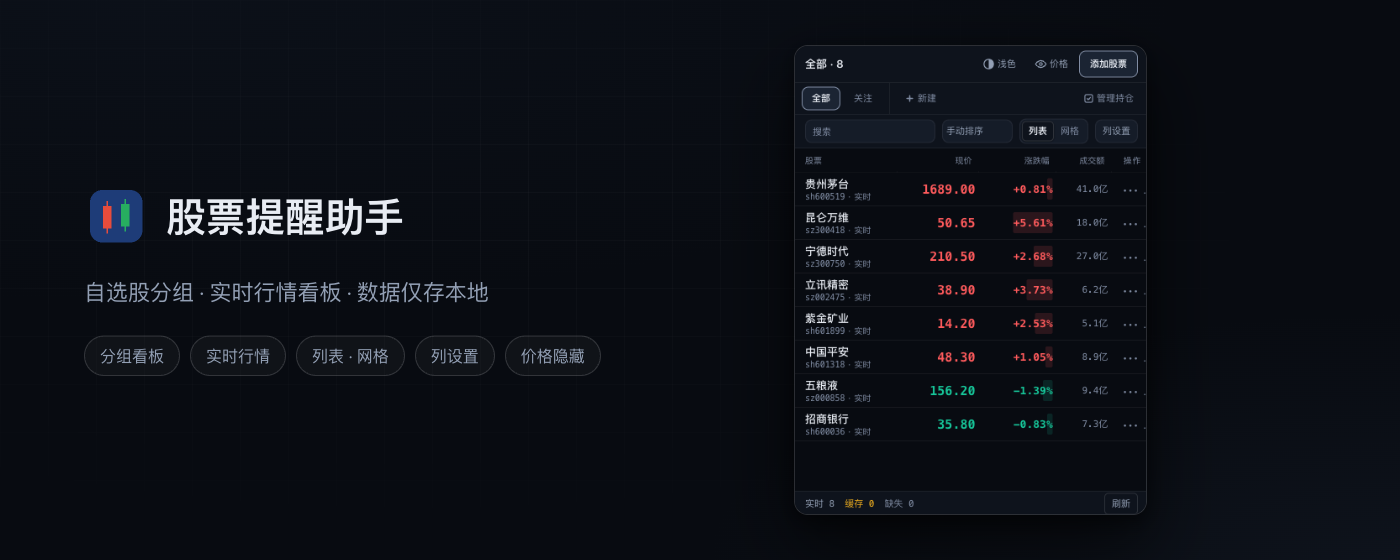
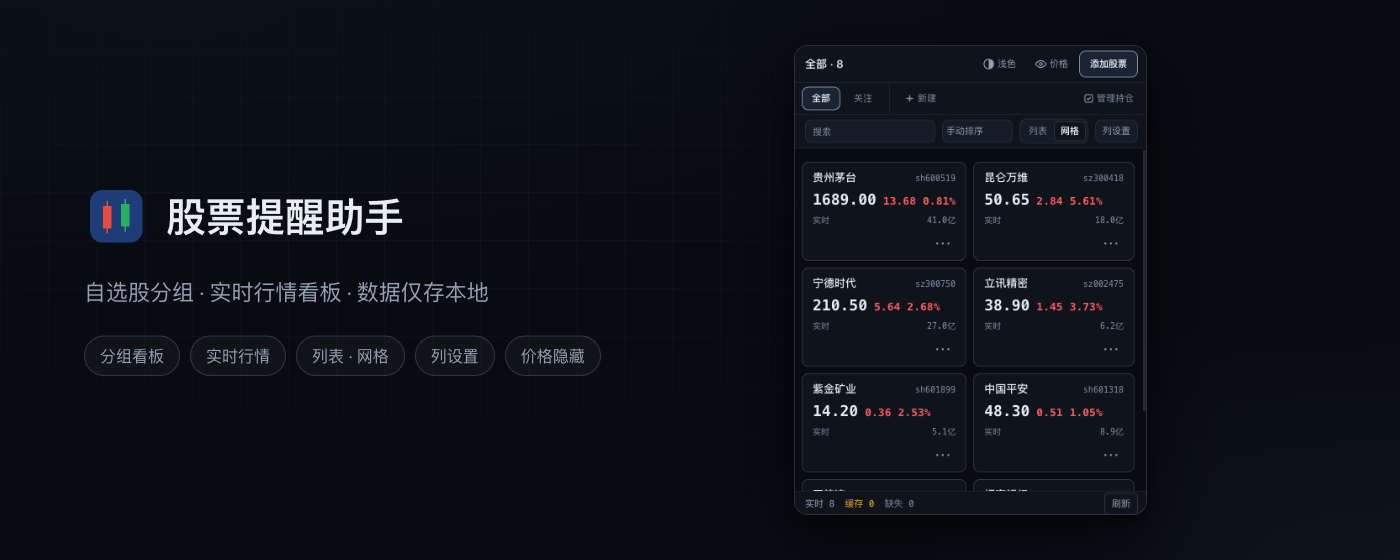
feat(popup)!: 默认视图改为网格；更新项目规范
默认形态定为「深色 + 网格」——全新用户打开即一屏卡片。
深色本就是默认（popup/main.ts 仅在 localStorage.uiTheme === 'light' 时转浅色，
不跟随系统），本次把视图默认从 list 改为 grid，并用 E2E 锁死这一首屏契约。

- DEFAULT_BOARD_CONFIG.viewMode: list → grid（domain 唯一定义处）
- 新增 E2E「fresh profile opens in dark theme and grid view」：不设 boardConfig
  走默认值，断言 data-theme=dark + 卡片在场 + 表格不在 DOM。已红绿验证
- 已保存过偏好的用户不受影响：默认值只用于 boardConfig 缺该分组条目时回退

测试鲁棒性：断言表格结构的 E2E 此前依赖全局默认值，默认一改就集体变红
（4 个用例）。新增 listBoardConfig() 夹具，让这类用例显式声明所需视图——
与已有的 gridBoardConfig() 对称。

商店素材：去掉种子里写死的 boardConfig，首图即真实首屏；截图重排为
grid → list → add，顶部图块也改用网格。

更新 AGENTS.md（项目规范）：
- 版本 2.0.0 → 2.0.1；修正已过时的样式表链（components.css 早已拆成 7 个分域表）
- 命令面补齐 test:build / test:release / capture:store，并写明「新增测试文件
  必须落进某个会跑的 glob」——目录即前置条件
- 新增不变量：view 不变量（两条 userData 落地路径都要过 settleView）、默认形态、
  行情字段绑定 endpoint 不可跨接口套用、商店素材规格、行高契约
- 新增「验证纪律」一节，记录两次踩坑的教训：mock 不能替代实证；门禁必须真的会跑；
  写死的期望值会掩盖真正的契约

diff --git a/tests/e2e/column-settings.spec.ts b/tests/e2e/column-settings.spec.ts
@@ -5,14 +5,14 @@
 // 但 app-shell 用一行注释显式忽略了该事件——ColumnPanelElement 已实现、已注册、
 // 有 236 行组件测试，用户点下去却毫无反应。全部门禁都是绿的。
 import { expect, test } from '@playwright/test';
-import { launchBuiltExtension, stock, baseSeed } from './extension-fixture';
+import { launchBuiltExtension, stock, baseSeed, listBoardConfig } from './extension-fixture';
 
 const COLUMN_TRIGGER = '[data-action="column-settings"]';
 
 test('column settings button opens a working panel', async () => {
   const launched = await launchBuiltExtension({
     offline: true,
-    seed: baseSeed({ watchlist: [stock('sh600519')] })
+    seed: baseSeed({ watchlist: [stock('sh600519')], boardConfig: listBoardConfig() })
   });
   try {
     const page = launched.page;
@@ -34,7 +34,7 @@ test('column settings button opens a working panel', async () => {
 test('disabling a column hides it and the choice survives reopening the popup', async () => {
   const launched = await launchBuiltExtension({
     offline: true,
-    seed: baseSeed({ watchlist: [stock('sh600519')] })
+    seed: baseSeed({ watchlist: [stock('sh600519')], boardConfig: listBoardConfig() })
   });
   try {
     const page = launched.page;
@@ -59,7 +59,7 @@ test('disabling a column hides it and the choice survives reopening the popup', 
 test('the locked name column is absent and price can be switched off', async () => {
   const launched = await launchBuiltExtension({
     offline: true,
-    seed: baseSeed({ watchlist: [stock('sh600519')] })
+    seed: baseSeed({ watchlist: [stock('sh600519')], boardConfig: listBoardConfig() })
   });
   try {
     const page = launched.page;
@@ -84,7 +84,7 @@ test('the locked name column is absent and price can be switched off', async () 
 test('escape closes the popover and returns focus to the trigger', async () => {
   const launched = await launchBuiltExtension({
     offline: true,
-    seed: baseSeed({ watchlist: [stock('sh600519')] })
+    seed: baseSeed({ watchlist: [stock('sh600519')], boardConfig: listBoardConfig() })
   });
   try {
     const page = launched.page;
@@ -104,7 +104,7 @@ test('escape closes the popover and returns focus to the trigger', async () => {
 test('grid cards apply column settings', async () => {
   const launched = await launchBuiltExtension({
     offline: true,
-    seed: baseSeed({ watchlist: [stock('sh600519')] })
+    seed: baseSeed({ watchlist: [stock('sh600519')], boardConfig: listBoardConfig() })
   });
   try {
     const page = launched.page;
@@ -127,7 +127,7 @@ test('grid cards apply column settings', async () => {
 test('reordering a column reorders the table columns persistently', async () => {
   const launched = await launchBuiltExtension({
     offline: true,
-    seed: baseSeed({ watchlist: [stock('sh600519')] })
+    seed: baseSeed({ watchlist: [stock('sh600519')], boardConfig: listBoardConfig() })
   });
   try {
     const page = launched.page;

diff --git a/tests/e2e/preferences.spec.ts b/tests/e2e/preferences.spec.ts
@@ -4,6 +4,35 @@
 import { expect, test } from '@playwright/test';
 import { launchBuiltExtension, stock, baseSeed, getStorage } from './extension-fixture';
 
+/**
+ * 首次打开的默认形态：深色主题 + 网格视图。
+ *
+ * 这是产品决定的第一印象，不是实现细节——没有配置（boardConfig 为空、
+ * 未写过 uiTheme）时必须是这个样子。默认值散落在 DEFAULT_BOARD_CONFIG 与
+ * popup/main.ts 两处，任何一处漂移都会改变全新用户看到的界面，
+ * 而其余用例大多显式声明视图，抓不到这种回归。
+ */
+test('a fresh profile opens in dark theme and grid view', async () => {
+  const launched = await launchBuiltExtension({
+    offline: true,
+    // 不设 boardConfig：走 DEFAULT_BOARD_CONFIG。
+    seed: baseSeed({ watchlist: [stock('sh600519'), stock('sz000001')] })
+  });
+  try {
+    const page = launched.page;
+    await page.waitForSelector('stock-app');
+    // 深色：main.ts 在 Store 创建前就写 data-theme，避免闪烁。
+    await expect.poll(async () => page.evaluate(() => document.documentElement.dataset.theme)).toBe('dark');
+    // 网格：看板只挂载激活视图，所以卡片在、表格不在。
+    await expect(page.locator('stock-card').first()).toBeVisible();
+    await expect(page.locator('stock-table table')).toHaveCount(0);
+    // 工具栏的「网格」按钮应处于选中态。
+    await expect(page.locator('[data-action="view-grid"]')).toHaveAttribute('aria-pressed', 'true');
+  } finally {
+    await launched.close();
+  }
+});
+
 test('view mode preference persists', async () => {
   const launched = await launchBuiltExtension({
     offline: true,

diff --git a/tests/e2e/groups.spec.ts b/tests/e2e/groups.spec.ts
@@ -2,7 +2,7 @@
 // Task 18 Step 4 — 分组生命周期完整测试。
 // 每个流程后重开 Popup 检查 chrome.storage.local 确保持久化。
 import { expect, test } from '@playwright/test';
-import { launchBuiltExtension, GROUPS, stock, baseSeed, getStorage , gridBoardConfig} from './extension-fixture';
+import { launchBuiltExtension, GROUPS, stock, baseSeed, getStorage , gridBoardConfig, listBoardConfig } from './extension-fixture';
 
 test('create a new custom group', async () => {
   const launched = await launchBuiltExtension({
@@ -67,7 +67,8 @@ test('rename a custom group', async () => {
 test('delete a custom group', async () => {
   const launched = await launchBuiltExtension({
     offline: true,
-    seed: baseSeed({ watchlist: [stock('sh600519')] })
+    // 该用例断言回退到「全部」后表格里能看到那只股票——显式声明列表视图。
+    seed: baseSeed({ watchlist: [stock('sh600519')], boardConfig: listBoardConfig() })
   });
   try {
     // 切换到 g_tech → 触发 rename-group 对话框（包含删除按钮）。

diff --git a/tests/e2e/extension-fixture.ts b/tests/e2e/extension-fixture.ts
@@ -265,3 +265,15 @@ export function gridBoardConfig(): Record<string, unknown> {
     g_all: { viewMode: 'grid', sortField: 'manual', sortDirection: 'asc', priceHidden: false }
   };
 }
+
+/**
+ * 以列表视图打开看板的 boardConfig（含 g_tech，便于切分组后仍是列表）。
+ *
+ * 断言 `stock-table` 行为（thead/tbody/列顺序/列显隐）的用例必须显式声明列表视图：
+ * 默认视图已改为网格，只挂载激活视图意味着表格根本不在 DOM 里。
+ * 用例依赖全局默认值是脆的——默认一改，一批与「默认值」无关的用例就集体变红。
+ */
+export function listBoardConfig(): Record<string, unknown> {
+  const list = { viewMode: 'list', sortField: 'manual', sortDirection: 'asc', priceHidden: false };
+  return { g_all: { ...list }, g_tech: { ...list } };
+}

diff --git a/tests/unit/application/portfolio-commands.test.ts b/tests/unit/application/portfolio-commands.test.ts
@@ -413,7 +413,7 @@ test('setOrder creates default boardConfig if missing', async () => {
   });
   const cfg = result.userData.boardConfig.g_all;
   assert.equal(cfg.sortField, 'manual');
-  assert.equal(cfg.viewMode, 'list');
+  assert.equal(cfg.viewMode, 'grid');
   assert.equal(cfg.sortDirection, 'asc');
   assert.equal(cfg.priceHidden, false);
 });
@@ -699,7 +699,7 @@ test('patchPreferences creates default config if missing', async () => {
     patch: { sortField: 'price' }
   });
   assert.equal(result.value.sortField, 'price');
-  assert.equal(result.value.viewMode, 'list'); // default
+  assert.equal(result.value.viewMode, 'grid'); // default
   assert.equal(result.value.sortDirection, 'asc'); // default
   assert.equal(result.value.priceHidden, false); // default
 });

diff --git a/tests/unit/popup/selectors.test.ts b/tests/unit/popup/selectors.test.ts
@@ -113,7 +113,7 @@ test('selectCurrentBoardConfig returns the boardConfig for the current group', (
 test('selectCurrentBoardConfig falls back to default when group has no config', () => {
   const state = stateWith([], { boardConfig: {} });
   const cfg = selectCurrentBoardConfig(state);
-  assert.equal(cfg.viewMode, 'list');
+  assert.equal(cfg.viewMode, 'grid');
   assert.equal(cfg.priceHidden, false);
   assert.equal(cfg.sortField, 'manual');
 });

diff --git a/src/domain/portfolio.ts b/src/domain/portfolio.ts
@@ -38,7 +38,7 @@ export function stocksForGroup(stocks: readonly Stock[], groupId: GroupId): read
  * 忽略 direction 才没暴露成真实 bug。任何新的消费方都必须引用此常量。
  */
 export const DEFAULT_BOARD_CONFIG: BoardConfig = Object.freeze({
-  viewMode: 'list',
+  viewMode: 'grid',
   sortField: 'manual',
   sortDirection: 'asc',
   priceHidden: false

diff --git a/tests/unit/domain/portfolio.test.ts b/tests/unit/domain/portfolio.test.ts
@@ -192,7 +192,7 @@ test('stocksForGroup returns a copy, not the original array', () => {
 
 test('DEFAULT_BOARD_CONFIG is the single shared fallback and is immutable', () => {
   assert.deepEqual(DEFAULT_BOARD_CONFIG, {
-    viewMode: 'list',
+    viewMode: 'grid',
     sortField: 'manual',
     sortDirection: 'asc',
     priceHidden: false

diff --git a/AGENTS.md b/AGENTS.md
@@ -1,4 +1,4 @@
-# AGENTS.md — 股票提醒助手（Chrome 扩展，Manifest V3，v2.0.0 TypeScript/ESM）
+# AGENTS.md — 股票提醒助手（Chrome 扩展，Manifest V3，v2.0.1 TypeScript/ESM）
 
 新会话从本文件起步；权威架构说明见 [docs/项目架构.md](docs/项目架构.md)。
 
@@ -7,7 +7,7 @@
 | 文件 | 角色 |
 |------|------|
 | `extension/manifest.json` | 扩展清单（MV3）：`action.default_popup` = popup.html，`background.service_worker` = `runtime/background/main.js`（`type: "module"`）；权限仅 `storage` + `alarms`；host_permissions 覆盖三个数据源域名（push2.eastmoney.com / searchapi.eastmoney.com / qt.gtimg.cn） |
-| `extension/popup.html` | 弹窗 UI 入口：`<stock-app hidden>` + `#fatal-fallback` + `<script type="module" src="runtime/popup/main.js">`；链式加载 `tokens.css → layout.css → components.css` |
+| `extension/popup.html` | 弹窗 UI 入口：`<stock-app hidden>` + `#fatal-fallback` + `<script type="module" src="runtime/popup/main.js">`；链式加载 `tokens → base → layout → controls → board → overlays → accessibility`（7 个分域样式表，`components.css` 已在 v2 视觉重建中拆解） |
 | `src/background/main.ts` | Service Worker 组合根：同步注册所有 Chrome listener（onMessage/onAlarm/onInstalled/onStartup/onChanged），创建 `StorageCoordinator` + Application Services + Router + Scheduler，通过可重试初始化屏障 `idle/running/ready` 处理事件 |
 | `src/popup/main.ts` | Popup 组合根：定义 Web Components、创建 RpcClient/Store/CommandController/AppShell，调用 `app:bootstrap`，调度行情刷新 |
 
@@ -36,11 +36,18 @@ Infrastructure (Chrome / Storage / HTTP)  →  implements  →  Application Port
 - `npm run test:unit`：`tsx` + node:test 跑 `tests/unit/**/*.test.ts`，c8 覆盖率门槛 lines/statements/functions 90 / branches 85
 - `npm run test:critical-coverage`：Domain/Protocol/Storage/Reducer per-file 门槛 95/90/95/95
 - `npm run test:component`：`tsx` + happy-dom 跑 `tests/component/**/*.test.ts`
+- `npm run test:build`：`tests/unit/build/**/*.test.mjs`——构建产物 / 架构闸 / 容量夹具 / **商店素材规格**（无需浏览器）
 - `npm run test:e2e`：Playwright 加载 `build/extension/` 真实扩展 E2E
 - `npm run test:a11y`：axe-core 无障碍扫描
-- `npm run ci`：check + test:unit + test:critical-coverage + test:component + test:e2e + test:a11y
-- `npm run release:verify`：ci + test:performance + npm audit + verify-deterministic-build + capture:store + package:extension + check:bundle
+- `npm run ci`：check + test:unit + test:critical-coverage + test:component + **test:build** + test:e2e + test:a11y
+- `npm run test:release`：`tests/release/**`——释放包允许列表。前置条件是**已打包**，故只进 `release:verify`，不进 `ci`
+- `npm run release:verify`：ci + test:performance + npm audit + verify-deterministic-build + capture:store + package:extension + check:bundle + test:release
+- `npm run capture:store`：生成商店素材（3 张 1280x800 截图 + 440x280 + 1400x560），落 `store-assets/`
 - `npm run test:live`：实网行情冒烟（**不进 ci**，依赖第三方端点可达性）
+
+> **新增测试文件必须落进某个会跑的 glob。** `tests/unit/build/` 曾有 4 个 `.test.mjs`
+> 长期不被任何门禁执行——`test:unit` 的 glob 只匹配 `*.test.ts`。目录即前置条件：
+> 需要打包产物的放 `tests/release/`，其余放 `tests/unit/build/`。
 
 ## 核心边界（不变量）
 
@@ -49,6 +56,11 @@ Infrastructure (Chrome / Storage / HTTP)  →  implements  →  Application Port
 - **代码规范**：股票代码带市场前缀 `sh` / `sz` / `bj`，统一经 `src/domain/stock.ts` 的 `normalizeStockCode` 规范化
 - **RPC v2**：`src/protocol/registry.ts` 是唯一的 RPC 方法/payload/result/validator 注册表（13 个方法）；所有写命令是幂等最终态命令并携带 `expectedRevision`；冲突返回 `CONFLICT` 不写入；`requestId` 贯穿全链路
 - **Popup Store**：`src/popup/store/reducer.ts` 是 `AppState` 的唯一写入口（纯函数）；`domain.boardConfig` 是持久偏好的唯一真相；超时写入进入 uncertain 状态，经 bootstrap 对账确认后更新——绝不盲目回滚
+- **view 不变量**：`currentGroupId` 必须指向存在的分组，且**选中集 ⊆ 当前分组可见集**。替换 `userData` 的路径有**两条**——`mutation/confirmed` 与 `bootstrap/confirmed`（写命令超时 → uncertain → `app:bootstrap` 对账），两条都必须过 `settleView`。只在 mutation 分支收敛会让批量工具栏为已删除的股票留计数
+- **默认形态**：全新用户打开即 **深色 + 网格**。两处默认值——`DEFAULT_BOARD_CONFIG`（`src/domain/portfolio.ts`，唯一定义处）与 `src/popup/main.ts` 的 `initialTheme`（仅当 `localStorage.uiTheme === 'light'` 才转浅色，不读 `prefers-color-scheme`）。由 `tests/e2e/preferences.spec.ts` 的「fresh profile」用例守护
+- **行情字段绑定 endpoint，不可跨接口套用**：东财 `f*` 字段的含义**随 endpoint 变化**——`f51/f52` 只在逐只的 `stock/get` 上是涨停/跌停价，在本项目使用的批量接口 `ulist.np/get` 上是无关量纲（实测茅台 2715 亿、平安银行 0）。新增字段前必须拿真实接口比对已知真值，不能只照字段表；provider 缺该数据时保持 `undefined`，展示层渲染 `--`
+- **商店素材规格**：`store-assets/` 的截图必须是 1280x800 或 640x400、小图块 440x280、顶部图块 1400x560，且为 24 位无 alpha PNG。由 `tests/unit/build/store-assets.test.mjs` 守护——商店只在**上传那一刻**报「图片尺寸不正确」，没有门禁就会一直躺着一批不能用的图
+- **行高契约**：`TABLE_ROW_EXTENT`（`stock-table.ts`）必须等于 `tokens.css` 的 `--row-h`，否则虚拟滚动的 spacer 与真实行高逐行错位。由组件测试直接比对两个真实来源双向锁死
 - **调度**：刷新间隔由市场状态计算——盘中 popup 10s / 后台 alarm 30s，盘外 5 分钟；每次任务先创建安全 Alarm（5 分钟），结束后替换为精确 Alarm；每次 SW 激活执行 `ensureAlarm`
 
 ## 风险路由（改哪里、注意什么）
@@ -58,4 +70,20 @@ Infrastructure (Chrome / Storage / HTTP)  →  implements  →  Application Port
 - 新增/修改 RPC 方法 → `src/protocol/registry.ts`（单一注册表）+ `src/background/rpc-handlers.ts`（exhaustive handler 表）两端同步；payload 用注册表内联 validator 校验
 - 改 Popup 状态流 → `src/popup/store/reducer.ts`（唯一写入口）+ `selectors.ts`；组件只接收 ViewModel、发出语义事件，不访问 Store/RPC/Repository
 - 改权限/入口/域名 → `extension/manifest.json`；host_permissions 只允许上述三个数据源域名
+- 改默认视图/主题 → `DEFAULT_BOARD_CONFIG` + `src/popup/main.ts`；**断言表格结构的 E2E 必须显式声明视图**（`listBoardConfig()` / `gridBoardConfig()`），依赖全局默认值的用例会在默认一改时集体变红
+- 改商店素材/文案 → `scripts/capture-store-assets.mjs` + `store-assets/`；素材是随版本提交的产物，改完跑 `npm run capture:store` 并让 `test:build` 校验规格。文案只许描述**源码中真实存在**的能力：本扩展**没有价格提醒功能**（「股票提醒助手」只是产品名），备源是**腾讯**不是新浪，可配置列是 **5** 个，自定义分组上限 **19**（+1 个默认）
 - 改动后验证 → `npm run ci`（含覆盖率门槛 + 架构边界 + 真实扩展 E2E + axe）；纯 Domain/Protocol 改动优先跑 `tests/unit/domain/` / `tests/unit/protocol/`
+
+## 验证纪律（两次踩坑换来的）
+
+1. **mock 不能替代实证。** 跨进程/网络边界的契约，必须有一次拿真实响应做的核对。
+   v2.0.0 的 P0（备源永久 403）被一条恒真断言掩盖；v2.0.1 的 P1（f51/f52 不是涨跌停）
+   被手写 fixture 固化成「被测事实」——**任何 mock 测试都无法证伪写错的 mock**。
+2. **门禁必须真的会跑。** 断言存在 ≠ 断言执行。已发生三次：a11y 门禁从未进 CI、
+   `tests/unit/build/` 四个文件不被任何 glob 匹配、控件改名后 WCAG 尺寸断言因
+   `count()===0 → continue` 静默跳过。**选择器落空要抛错，不要 skip。**
+3. **写死的期望值会掩盖真正的契约。** `build-extension.test.mjs` 曾写死 `'2.0.0'`，
+   版本一升就报错；真正该断言的是「构建产物版本 == 源 manifest 版本」。
+   期望值应指向唯一真相，而不是复制一份。
+4. **改动后先问「这条断言现在还会失败吗」。** 新增回归测试要红→绿验证过；
+   改默认值/改名后，要确认原本守护它的用例仍然指向新的正确值。

diff --git a/CHANGELOG.md b/CHANGELOG.md
@@ -1,5 +1,15 @@
 # 更新日志
 
+## Unreleased
+
+### 变更
+- **默认视图改为网格**：`DEFAULT_BOARD_CONFIG.viewMode` 由 `list` 改为 `grid`——全新用户打开即一屏卡片。深色主题本就是默认（`popup/main.ts` 只在 `localStorage.uiTheme === 'light'` 时转浅色，不跟随系统），本次一并由 E2E「fresh profile」用例锁死「深色 + 网格」这一首屏契约
+- 已保存过视图偏好的用户不受影响：`boardConfig` 有该分组条目时读用户自己的选择，默认值只用于缺失时回退
+- 断言表格结构的 E2E 改为显式声明视图（新增 `listBoardConfig()` 夹具）——此前它们依赖全局默认值，默认一改就集体变红
+- 商店素材首图改为网格视图并去掉种子里写死的 `boardConfig`，使第一张截图就是真实首屏
+
+---
+
 ## v2.0.1 — 列设置修复与详情面板丰富
 
 ### 变更
